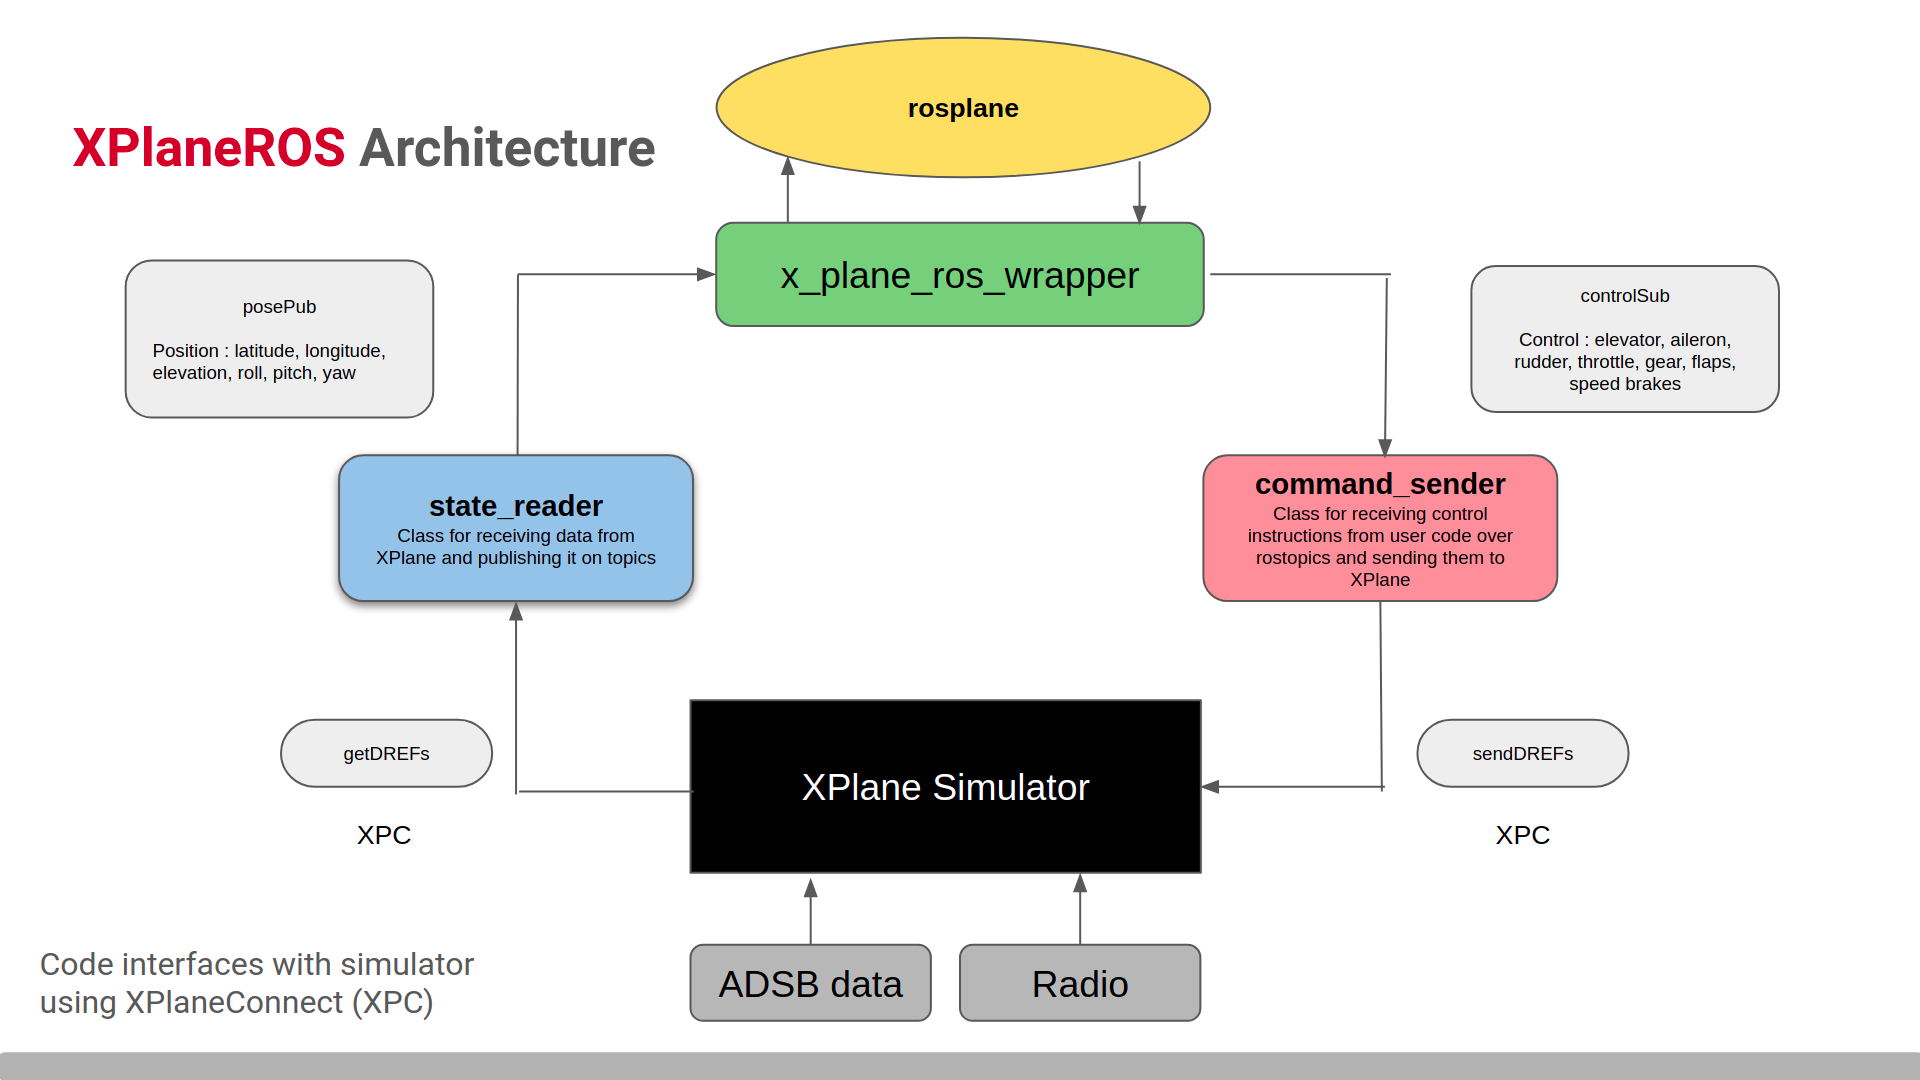
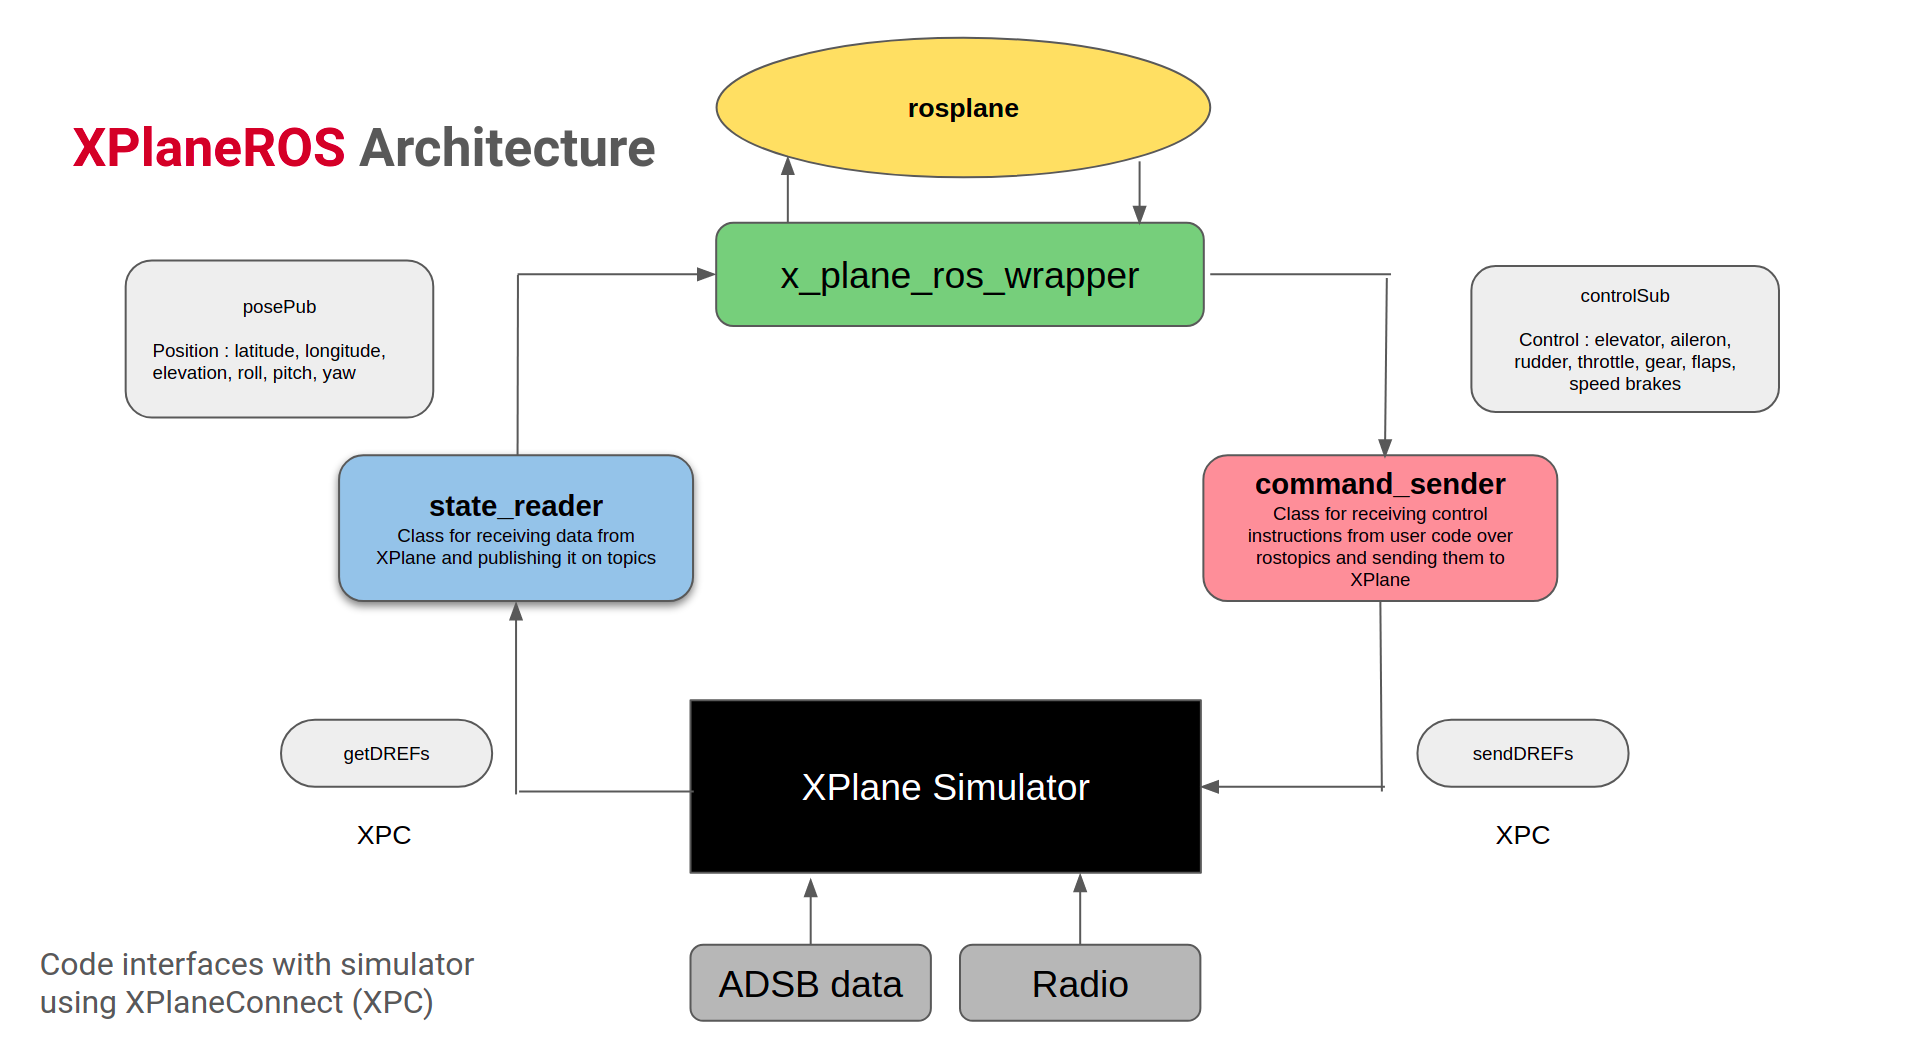
XplaneROS page published

diff --git a/_posts/2021-08-31-xplane-ros.md b/_posts/2021-08-31-xplane-ros.md
@@ -1,8 +1,8 @@
 ---
 layout: post
 title: "XPlaneROS : ROS Wrapper for Autonomous Fixed Wing Applications"
-date: 2021-06-29 9:00:07
-categories: datasets
+date: 2021-09-03 2:00:07
+categories: research
 description: "A ROS wrapper for the XPlane-11 flight simulator"
 author: "Rohan Baijal"
 published: true
@@ -18,8 +18,6 @@ remove_hero_title: true
 menubar_toc: true
 ---
 
-<!-- # XPlaneROS : ROS Wrapper for Autonomous Fixed Wing Applications and Learning using Realistic Dynamics -->
-
 
 Research in Autonomous Vehicles has boomed a lot, with a huge push towards self-driving cars and autonomous robots. Another interesting use case is life-size Autonomous Fixed Wing aircraft which could be used in a number of places. Here we try to take a step in that direction by getting some architecture in place.  
 
@@ -30,8 +28,8 @@ Recent research work in the lab related to Imitation Learning and Social Navigat
 We chose **X-Plane 11** as our simulator since it is compatible on multiple Operating Systems and provides many realistic options for aircraft and visuals. Along with XPlaneROS we have also integrated **ROSplane** as the controller and the autopilot. [ROSplane](https://github.com/byu-magicc/rosplane) is a famous autopilot for fixed-wing aircraft developed by the BYU MAGICC Lab.
 
 <figure>
- <img src="/img/posts/2021-08-31-xplane-ros/front_view.png" style="width:41%" />
-  <img src="/img/posts/2021-08-31-xplane-ros/side_view.png" style="width:41%" />
+ <img src="/img/posts/2021-08-31-xplane-ros/front_view.png" style="width:49%" />
+  <img src="/img/posts/2021-08-31-xplane-ros/side_view.png" style="width:49%" />
  <figcaption>
 XPlaneROS is a ROS wrapper over XPlane which can make tasks like Learning easier for Autonomous Fixed wing aircraft.
  </figcaption>
@@ -53,7 +51,7 @@ XPlaneROS is a ROS wrapper over XPlane which can make tasks like Learning easier
 <!-- <img src="images/xplane_ros_arch.png" alt="architecture"
 	title="architectur" />  -->
 <figure>
- <img src="/img/posts/2021-08-31-xplane-ros/xplane_ros_arch.png" alt="Planning" style="width:70%"/>
+ <img src="/img/posts/2021-08-31-xplane-ros/xplane_ros_arch.png" alt="Planning" style="width:99%"/>
  <figcaption>
 A pictorial overview of the ROS wrapper
  </figcaption>
@@ -98,8 +96,20 @@ The following video gives a tutorial on how to implement pattern following with 
 
 There are efforts underway to use this system along with a Behaviour Cloning framework and a native Trajectory Library. We hope this tool also becomes useful to other researchers out there wanting to try out Learning-based approaches for autonomous aircraft. The ROS integration is an added benefit which allows people to go beyond only Learning and use the trained algorithms within a whole system.
 
+## Additional Info
 
-## Term of use
+### Contributers
+* Rohan Baijal (Maintainer): [Email](rbaijal@iitk.ac.in)
+
+* [Jay Patrikar](https://theairlab.org/team/jay/) (Maintainer)
+
+* [Brady Moon](https://theairlab.org/team/bradym/)
+
+* [Dr. Sebastian Scherer](https://theairlab.org/team/sebastian/)
+
+* [Dr. Jean Oh](https://www.cs.cmu.edu/~./jeanoh/)
+
+### Term of use
 [BSD 4-Clause License](https://choosealicense.com/licenses/bsd-4-clause/)
 
 <!-- <a rel="license" href="http://creativecommons.org/licenses/by/4.0/"><img alt="Creative Commons License" style="border-width:0" src="https://i.creativecommons.org/l/by/4.0/80x15.png" /></a><br />This work is licensed under a <a rel="license" href="http://creativecommons.org/licenses/by/4.0/">Creative Commons Attribution 4.0 International License</a>. -->
